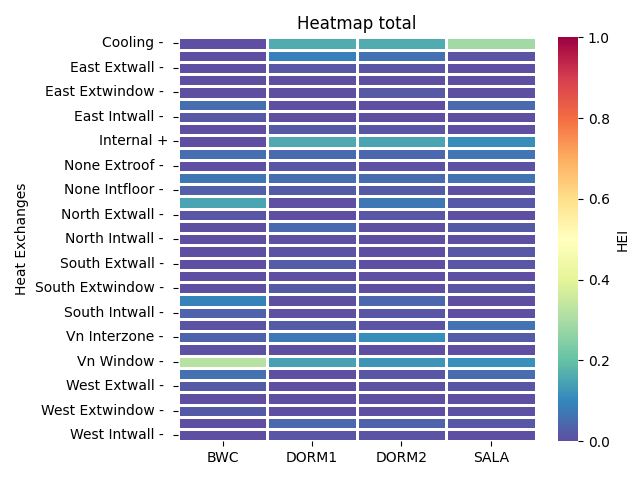
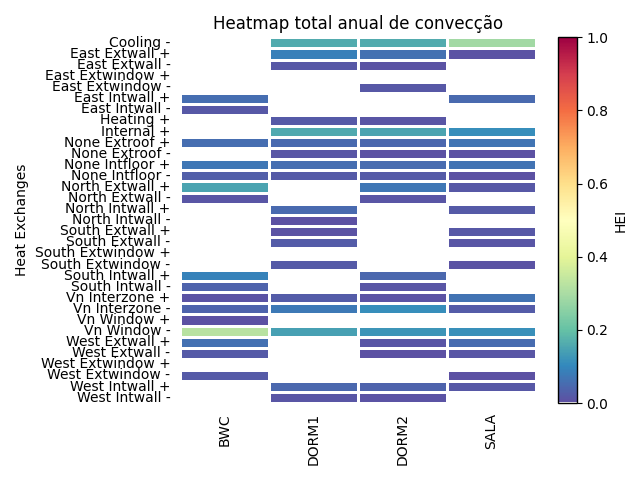
Melhorada geral nos heatmaps

diff --git a/plotting_space/plotter.py b/plotting_space/plotter.py
@@ -2,21 +2,47 @@
 
 import seaborn as sns
 import pandas as pd
+import numpy as np
 from matplotlib import pyplot as plt
+from matplotlib.colors import LinearSegmentedColormap
 
 num_to_month = {1: 'jan', 2: 'feb', 3: 'mar', 4: 'apr', 5: 'may', 6: 'jun', 7: 'jul', 8: 'aug', 9: 'sep', 10: 'oct', 11: 'nov', 12: 'dec'}
-month_to_num = {'jan': 1, 'feb': 2, 'mar': 3, 'apr': 4, 'may': 5, 'jun': 6, 'jul': 7, 'aug': 8, 'sep': 9, 'oct': 10, 'nov': 11, 'dec': 12}
 
 class HeatMap:
-    def __init__(self, file_path: str, file_name: str, zones: list = 0):
+    def __init__(self, file_path: str, file_name: str, zones: list = 0, sizefont: float = 10, tight: bool = True, show: bool = False):
         self.file_path = file_path
         self.file_name = file_name
         self.df = pd.read_csv(f'{self.file_path}{self.file_name}', sep=',', index_col=0)
         self.df['gains_losses'] = self.df['gains_losses'].apply(lambda name: name.replace("_", " ").title())
-        self.df['gains_losses'] = self.df.apply(lambda row: f'{row["gains_losses"]} +' if row['heat_direction'] == 'gain' else f'{row["gains_losses"]} - ', axis=1)
+        self.df['gains_losses'] = self.df.apply(lambda row: f'{row["gains_losses"]} +' if row['heat_direction'] == 'gain' else f'{row["gains_losses"]} -', axis=1)
         self.zones = zones
+        self.sizefont = sizefont
+        self.tight = tight
+        self.show = show
 
-    def convection_annual(self, tight: bool = True, show: bool = False) -> sns.heatmap:
+    def plot_heatmap(self, title: str) -> sns.heatmap:
+        spectral_r = plt.get_cmap('Spectral_r')
+        colors = spectral_r(np.arange(spectral_r.N))
+        colors[0] = np.array([1, 1, 1, 1])
+        cmap = LinearSegmentedColormap.from_list('Custom_Spectral', colors, spectral_r.N)
+        heatmap = sns.heatmap(data=self.df, vmax=1, vmin=0, cmap=cmap, linewidths=1, xticklabels=True, yticklabels=True)
+        heatmap.set_xlabel('')
+        heatmap.set_ylabel('Heat Exchanges')
+        heatmap.set_title(title)
+        heatmap.collections[0].colorbar.set_label('HEI')
+        cbar = heatmap.collections[0].colorbar
+        cbar.outline.set_edgecolor('black')
+        cbar.outline.set_linewidth(1)
+        heatmap.tick_params(left=False, bottom=False)
+        plt.xticks(rotation=90, fontsize=self.sizefont)
+        plt.yticks(fontsize=self.sizefont)
+        if self.tight:
+            plt.tight_layout()
+        if self.show:
+            plt.show()
+        return heatmap
+    
+    def convection_annual(self) -> sns.heatmap:
         match self.zones:
             case 0:
                 self.df = self.df.loc[self.df['zone'] != 'EXTERNAL']
@@ -25,18 +51,10 @@ class HeatMap:
                 self.df = self.df.loc[self.df['zone'].isin(self.zones)]    
                 title = f'Heatmap para {", ".join(self.zones)} anual de convecção'
         self.df = self.df[['gains_losses', 'zone', 'HEI']].pivot_table(index='gains_losses', columns='zone', values='HEI').fillna(0)
-        heatmap = sns.heatmap(data=self.df, vmax=1, vmin=0, cmap='Spectral_r', linewidths=1)
-        heatmap.set_xlabel('')
-        heatmap.set_ylabel('Heat Exchanges')
-        heatmap.set_title(title)
-        heatmap.collections[0].colorbar.set_label('HEI')
-        if tight:
-            plt.tight_layout()
-        if show:
-            plt.show()
-        return heatmap
+        map_obj = self.plot_heatmap(title = title)
+        return map_obj
     
-    def convection_monthly(self, tight: bool = True, show: bool = False):
+    def convection_monthly(self) -> sns.heatmap:
         match self.zones:
             case 0:
                 self.df = self.df.loc[self.df['zone'] != 'EXTERNAL']
@@ -44,23 +62,14 @@ class HeatMap:
             case _:
                 self.df = self.df.loc[self.df['zone'].isin(self.zones)]    
                 title = f'Heatmap para {", ".join(self.zones)} mensal de convecção'
-        self.df['zone'] = self.df.apply(lambda row: f'{row["zone"]} {num_to_month[row["month"]]}', axis=1)
+        self.df['zone'] = self.df.apply(lambda row: f'{row["month"]} {row["zone"]}', axis=1)
         self.df = self.df[['gains_losses', 'zone', 'HEI']].pivot_table(index='gains_losses', columns='zone', values='HEI').fillna(0)
-        heatmap = sns.heatmap(data=self.df, vmax=1, vmin=0, cmap='Spectral_r', linewidths=1)
-        heatmap.set_xlabel('')
-        heatmap.set_ylabel('Heat Exchanges')
-        heatmap.set_title(title)
-        heatmap.collections[0].colorbar.set_label('HEI')
-        plt.xticks(rotation=90)
-        if tight:
-            plt.tight_layout()
-        if show:
-            plt.show()
-        return heatmap
+        map_obj = self.plot_heatmap(title = title)
+        return map_obj
 
 
 if __name__ == "__main__":
-    annual_conv = HeatMap(file_path=r'plotting_space/anual_conv/', file_name='anual_conv.csv', zones=['DORM1', "BWC"])
-    annual_conv.convection_annual(show=True)
-    # mensal_conv = HeatMap(file_path=r'plotting_space/mensal_conv/', file_name='mensal_conv.csv', zones=['SALA'])
-    # mensal_conv.convection_monthly(show=True)
+    # annual_conv = HeatMap(file_path=r'plotting_space/anual_conv/', file_name='anual_conv.csv', show=True)
+    # annual_conv.convection_annual()
+    mensal_conv = HeatMap(file_path=r'plotting_space/mensal_conv/', file_name='mensal_conv.csv', show=True)
+    mensal_conv.convection_monthly()
